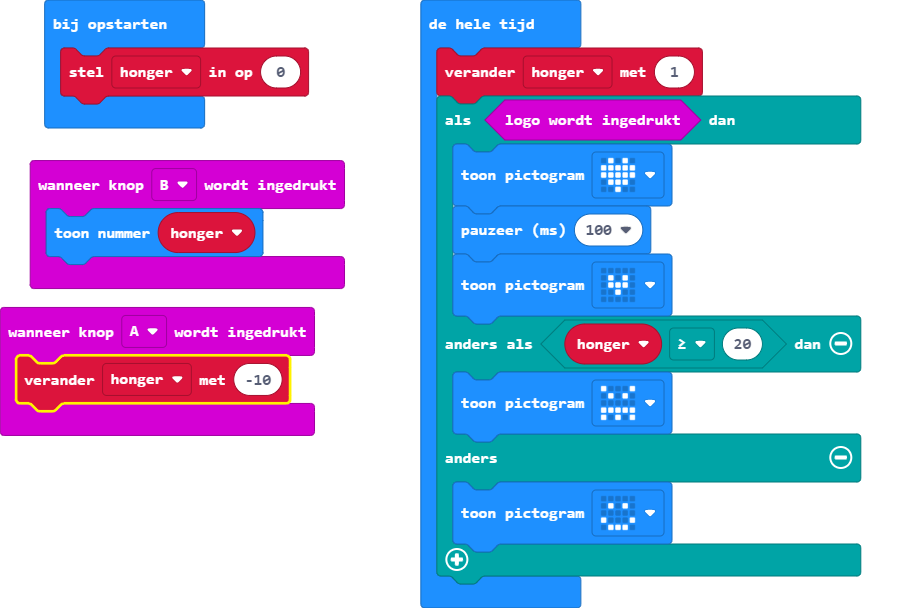
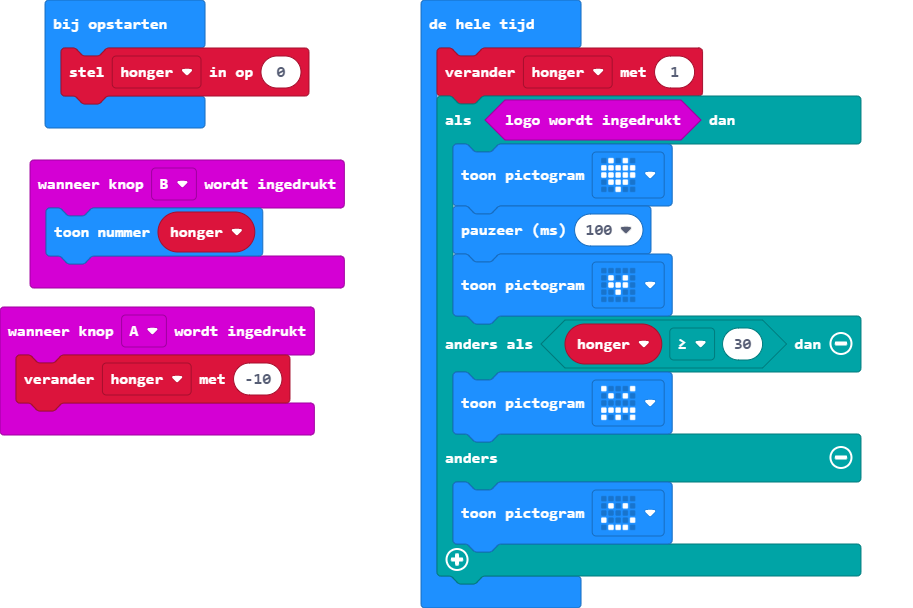
main.blocks, main.ts bijwerken

diff --git a/main.ts b/main.ts
@@ -12,7 +12,7 @@ basic.forever(function () {
         basic.showIcon(IconNames.Heart)
         basic.pause(100)
         basic.showIcon(IconNames.SmallHeart)
-    } else if (honger >= 20) {
+    } else if (honger >= 30) {
         basic.showIcon(IconNames.Angry)
     } else {
         basic.showIcon(IconNames.Happy)
